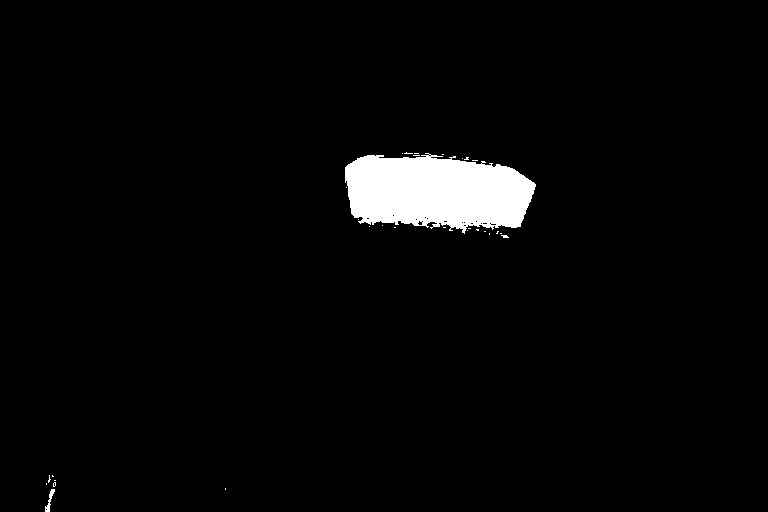
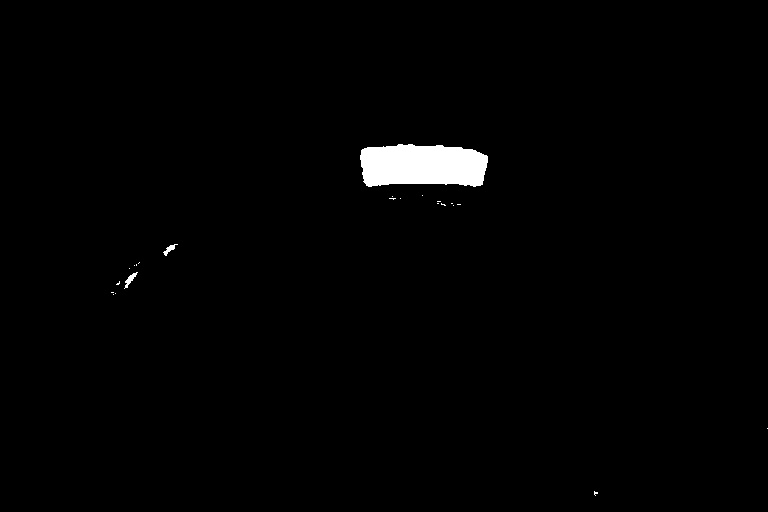
goal scoring is satisfactory

diff --git a/movement.py b/movement.py
@@ -11,16 +11,6 @@ from value_config import ValueConfig
 MAX_SPEED = 100000000
 SLOW_SPEED = int(MAX_SPEED * 0.1)
 
-unit_x = (vision.goalx_pos - vision.ballx_pos) / vision.ball_to_goal_distance
-unit_y = (vision.goaly_pos - vision.bally_pos) / vision.ball_to_goal_distance
-
-target_x = vision.ballx_pos - unit_x * ValueConfig.orbit_distance_threshold
-target_y = vision.bally_pos - unit_y * ValueConfig.orbit_distance_threshold
-
-desired_bearing = math.degrees(math.atan2(target_x - vision.ballx_pos, target_y - vision.bally_pos)) % 360
-current_bearing = math.degrees(math.atan2(0 - vision.ballx_pos, 0 - vision.bally_pos)) % 360
-normalised_bearing_error = (desired_bearing - current_bearing + 180) % 360 - 180
-
 
 def move_to_ball(ball_angle, ball_dist, goal_angle, speed=MAX_SPEED):
     """
@@ -55,20 +45,31 @@ def stop():
 
 
 def orbit_around(ball_angle, ball_dist, goal_angle, speed=MAX_SPEED):
-    offset = ball_angle - 90 if normalised_bearing_error < 0 else ball_angle + 90
+    ball_to_goal_distance = math.hypot(vision.goalx_pos - vision.ballx_pos, vision.goaly_pos - vision.bally_pos)
+    unit_x = (vision.goalx_pos - vision.ballx_pos) / ball_to_goal_distance if ball_to_goal_distance != 0 else 0
+    unit_y = (vision.goaly_pos - vision.bally_pos) / ball_to_goal_distance if ball_to_goal_distance != 0 else 0
+
+    target_x = vision.ballx_pos - unit_x * ValueConfig.orbit_distance_threshold
+    target_y = vision.bally_pos - unit_y * ValueConfig.orbit_distance_threshold
+
+    desired_bearing = math.degrees(math.atan2(target_x - vision.ballx_pos, target_y - vision.bally_pos)) % 360
+    current_bearing = math.degrees(math.atan2(0 - vision.ballx_pos, 0 - vision.bally_pos)) % 360
+    normalised_bearing_error = (desired_bearing - current_bearing + 180) % 360 - 180
+
+    offset = ball_angle - 90 if normalised_bearing_error > 0 else ball_angle + 90
 
     move_speed_factor = ball_dist / ValueConfig.chase_speed_factor
-    move_speed = int(speed * move_speed_factor)
+    move_speed = int(speed * move_speed_factor * 0.4)
 
     orbit_speed_factor = min(1.0, abs(normalised_bearing_error) / ValueConfig.orbit_full_speed_angle)
-    orbit_speed = int(speed * orbit_speed_factor)
+    orbit_speed = int(speed * orbit_speed_factor * 0.4)
 
     is_possession = (ball_dist < ValueConfig.orbit_distance_threshold 
                      and abs(goal_angle) < ValueConfig.goal_angle_tolerance
                      and abs(ball_angle) < ValueConfig.ball_angle_tolerance)
 
     if is_possession:
-        stop()
+        move_to_ball(ball_angle, ball_dist, goal_angle, speed)
     elif ball_dist < ValueConfig.orbit_distance_threshold:
         move_to_ball(offset, ball_dist, goal_angle, orbit_speed)
         print('orbiting around the ball')

diff --git a/main.py b/main.py
@@ -67,9 +67,9 @@ async def motor_task():
             movement.orbit_around(vision.normalised_ball_angle, vision.ball_dist, vision.normalised_goal_angle, speed=movement.MAX_SPEED)
             print('ball is visible')
             print(f'ball angle: {vision.normalised_ball_angle}, ball distance: {vision.ball_dist}')
-            # print(f'ballx: {vision.ballx_pos}, bally: {vision.bally_pos}')
+            print(f'ballx: {vision.ballx_pos}, bally: {vision.bally_pos}')
             print(f'goal angle: {vision.normalised_goal_angle}, goal distance: {vision.goal_dist}')
-            # print(f'goalx: {vision.goalx_pos}, goaly: {vision.goaly_pos}')
+            print(f'goalx: {vision.goalx_pos}, goaly: {vision.goaly_pos}')
             blind_spot_ticks_left = 0
 
         else:

diff --git a/motors.py b/motors.py
@@ -36,7 +36,7 @@ def setup_motors():
 
     for index, address in enumerate(ADDRESSES):
         driver = PowerfulBLDCDriver(i2c, address)
-        driver.set_current_limit_foc(65536) # 65536 times 2.5 = 163840
+        driver.set_current_limit_foc(163840) # 65536 times 2.5 = 163840
         driver.set_id_pid_constants(1500, 200)
         driver.set_iq_pid_constants(1500, 200)
         driver.set_speed_pid_constants(4e-2, 4e-4, 3e-2)

diff --git a/value_config.py b/value_config.py
@@ -7,7 +7,7 @@ class ValueConfig:
     chase_speed_factor: float = orbit_distance_threshold * 1.2
 
     orbit_full_speed_angle: int = 40
-    rotation_full_speed_angle: int = 23
+    rotation_full_speed_angle: int = 20
 
-    goal_angle_tolerance: int = 5
-    ball_angle_tolerance: int = 2
+    goal_angle_tolerance: int = 15
+    ball_angle_tolerance: int = 12

diff --git a/test_spin.py b/test_spin.py
@@ -6,7 +6,7 @@ import movement
 
 SPIN_SECONDS = 3
 PAUSE_SECONDS = 1
-TEST_SPEED = int(movement.MAX_SPEED * 0.3)
+TEST_SPEED = movement.SLOW_SPEED
 
 motors.setup_motors()
 print(f"Spinning {SPIN_SECONDS}s each way, Ctrl+C to stop")
